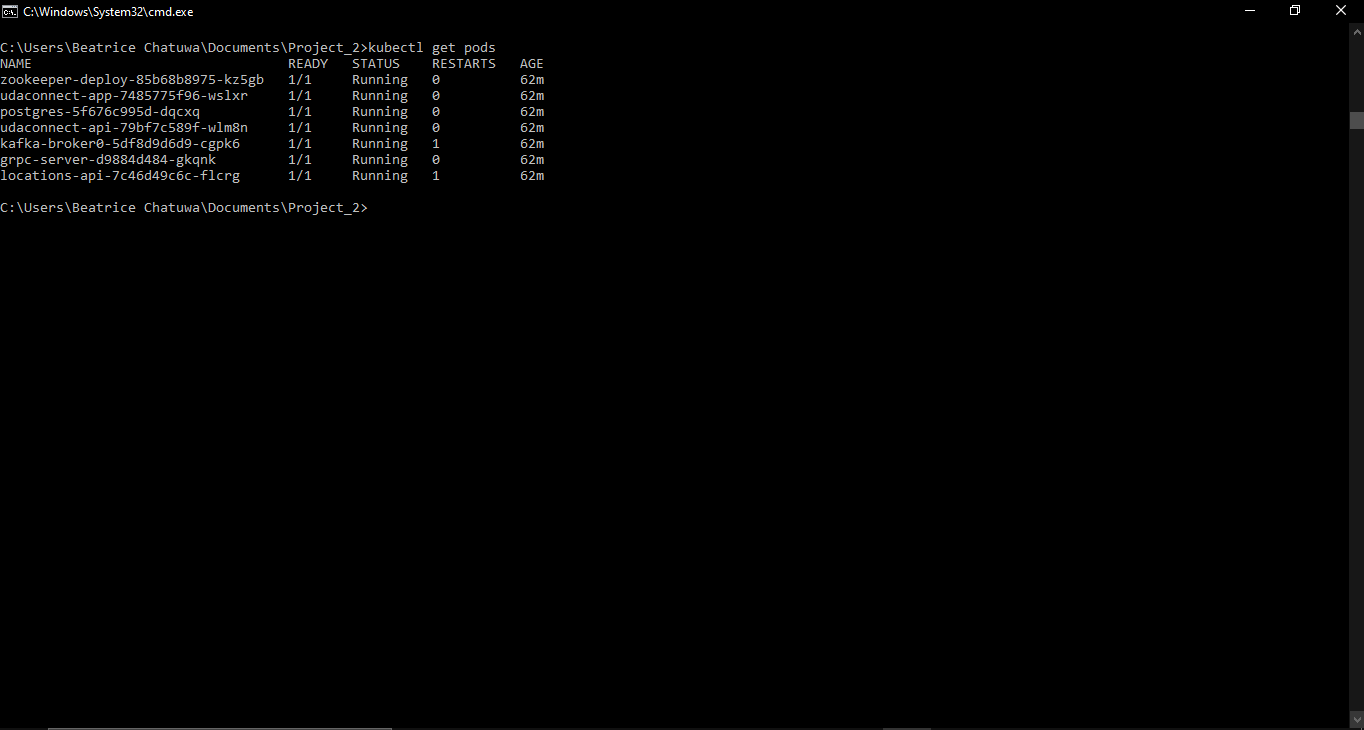
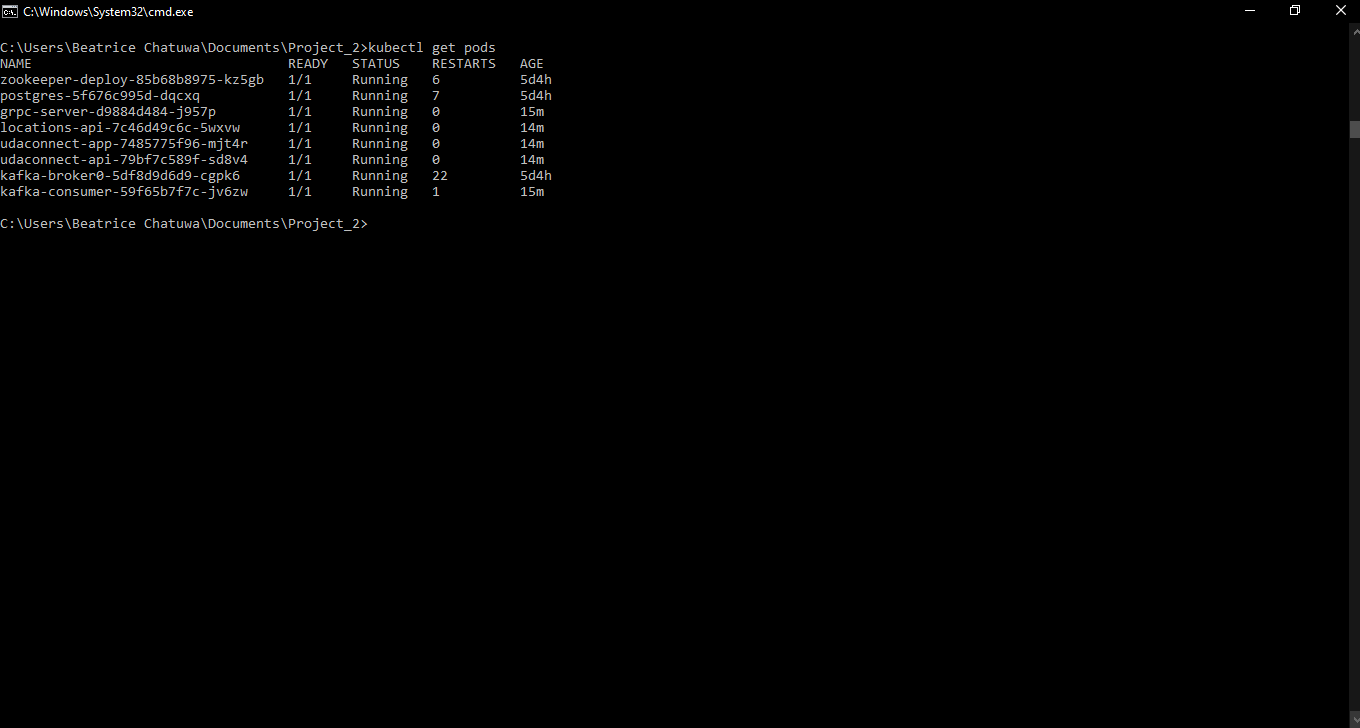
fixing deployment of kafka

diff --git a/modules/kafka-consumer/app/controllers.py b/modules/kafka-consumer/app/controllers.py
@@ -19,7 +19,10 @@ DATE_FORMAT = "%Y-%m-%d"
 api = Flask(__name__)
 
 #connect to database
-api.config['SQLALCHEMY_DATABASE_URL'] = 'postgresql://localhost:5432/geoconnections'
+api.config(
+    SQLALCHEMY_TRACK_MODIFICATIONS = False,
+    SQLALCHEMY_DATABASE_URI = 'postgresql://localhost:5432/geoconnections'
+    )
 
 db = SQLAlchemy(api)
 
@@ -32,7 +35,7 @@ stub = create_locations_pb2_grpc.LocationServiceStub(channel)
 def before_request():
     # Set up a Kafka producer
     TOPIC_NAME = 'locations'
-    KAFKA_SERVER = 'kafka-service.default.svc.cluster.local:9092'
+    KAFKA_SERVER = 'localhost:9092'
     producer = KafkaProducer(bootstrap_servers=KAFKA_SERVER)
     consumer = KafkaConsumer(TOPIC_NAME, bootstrap_servers=KAFKA_SERVER)
     # Setting Kafka to g enables us to use this

diff --git a/modules/gRPC-server/locations/controllers.py b/modules/gRPC-server/locations/controllers.py
@@ -19,7 +19,10 @@ DATE_FORMAT = "%Y-%m-%d"
 
 api = Flask(__name__)
 #connect to database
-api.config['SQLALCHEMY_DATABASE_URL'] = 'postgresql://localhost:5432/geoconnections'
+api.config(
+    SQLALCHEMY_TRACK_MODIFICATIONS = False,
+    SQLALCHEMY_DATABASE_URI = 'postgresql://localhost:5432/geoconnections'
+    )
 
 db = SQLAlchemy(api)
 
@@ -32,7 +35,7 @@ stub = create_locations_pb2_grpc.LocationServiceStub(channel)
 def before_request():
     # Set up a Kafka producer
     TOPIC_NAME = 'locations'
-    KAFKA_SERVER = 'kafka-service.default.svc.cluster.localhost:9092'
+    KAFKA_SERVER = 'localhost:9092'
     producer = KafkaProducer(bootstrap_servers=KAFKA_SERVER)
     consumer = KafkaConsumer(TOPIC_NAME)
     # Setting Kafka to g enables us to use this

diff --git a/modules/locations-api/app/controllers.py b/modules/locations-api/app/controllers.py
@@ -20,7 +20,10 @@ DATE_FORMAT = "%Y-%m-%d"
 api = Flask(__name__)
 
 #connect to database
-api.config['SQLALCHEMY_DATABASE_URL'] = 'postgresql://localhost:5432/geoconnections'
+api.config(
+    SQLALCHEMY_TRACK_MODIFICATIONS = False,
+    SQLALCHEMY_DATABASE_URI = 'postgresql://localhost:5432/geoconnections'
+    )
 
 db = SQLAlchemy(api)
 
@@ -34,7 +37,7 @@ stub = create_locations_pb2_grpc.LocationServiceStub(channel)
 def before_request():
     # Set up a Kafka producer
     TOPIC_NAME = 'locations'
-    KAFKA_SERVER = 'kafka-service.default.svc.cluster.local:9092'
+    KAFKA_SERVER = 'localhost:9092'
     producer = KafkaProducer(bootstrap_servers=KAFKA_SERVER)
     consumer = KafkaConsumer(TOPIC_NAME)
     # Setting Kafka to g enables us to use this

diff --git a/modules/kafka-consumer/__init__.py b/modules/kafka-consumer/__init__.py
@@ -15,7 +15,7 @@ logging.basicConfig(level=logging.WARNING)
 logger = logging.getLogger("locations-api")
 
 TOPIC_NAME = 'locations'
-KAFKA_SERVER = 'kafka-service.default.svc.cluster.localhost:9092'
+KAFKA_SERVER = 'localhost:9092'
 consumer = KafkaConsumer(TOPIC_NAME, bootstrap_servers=KAFKA_SERVER)
 class LocationService:
     @staticmethod
